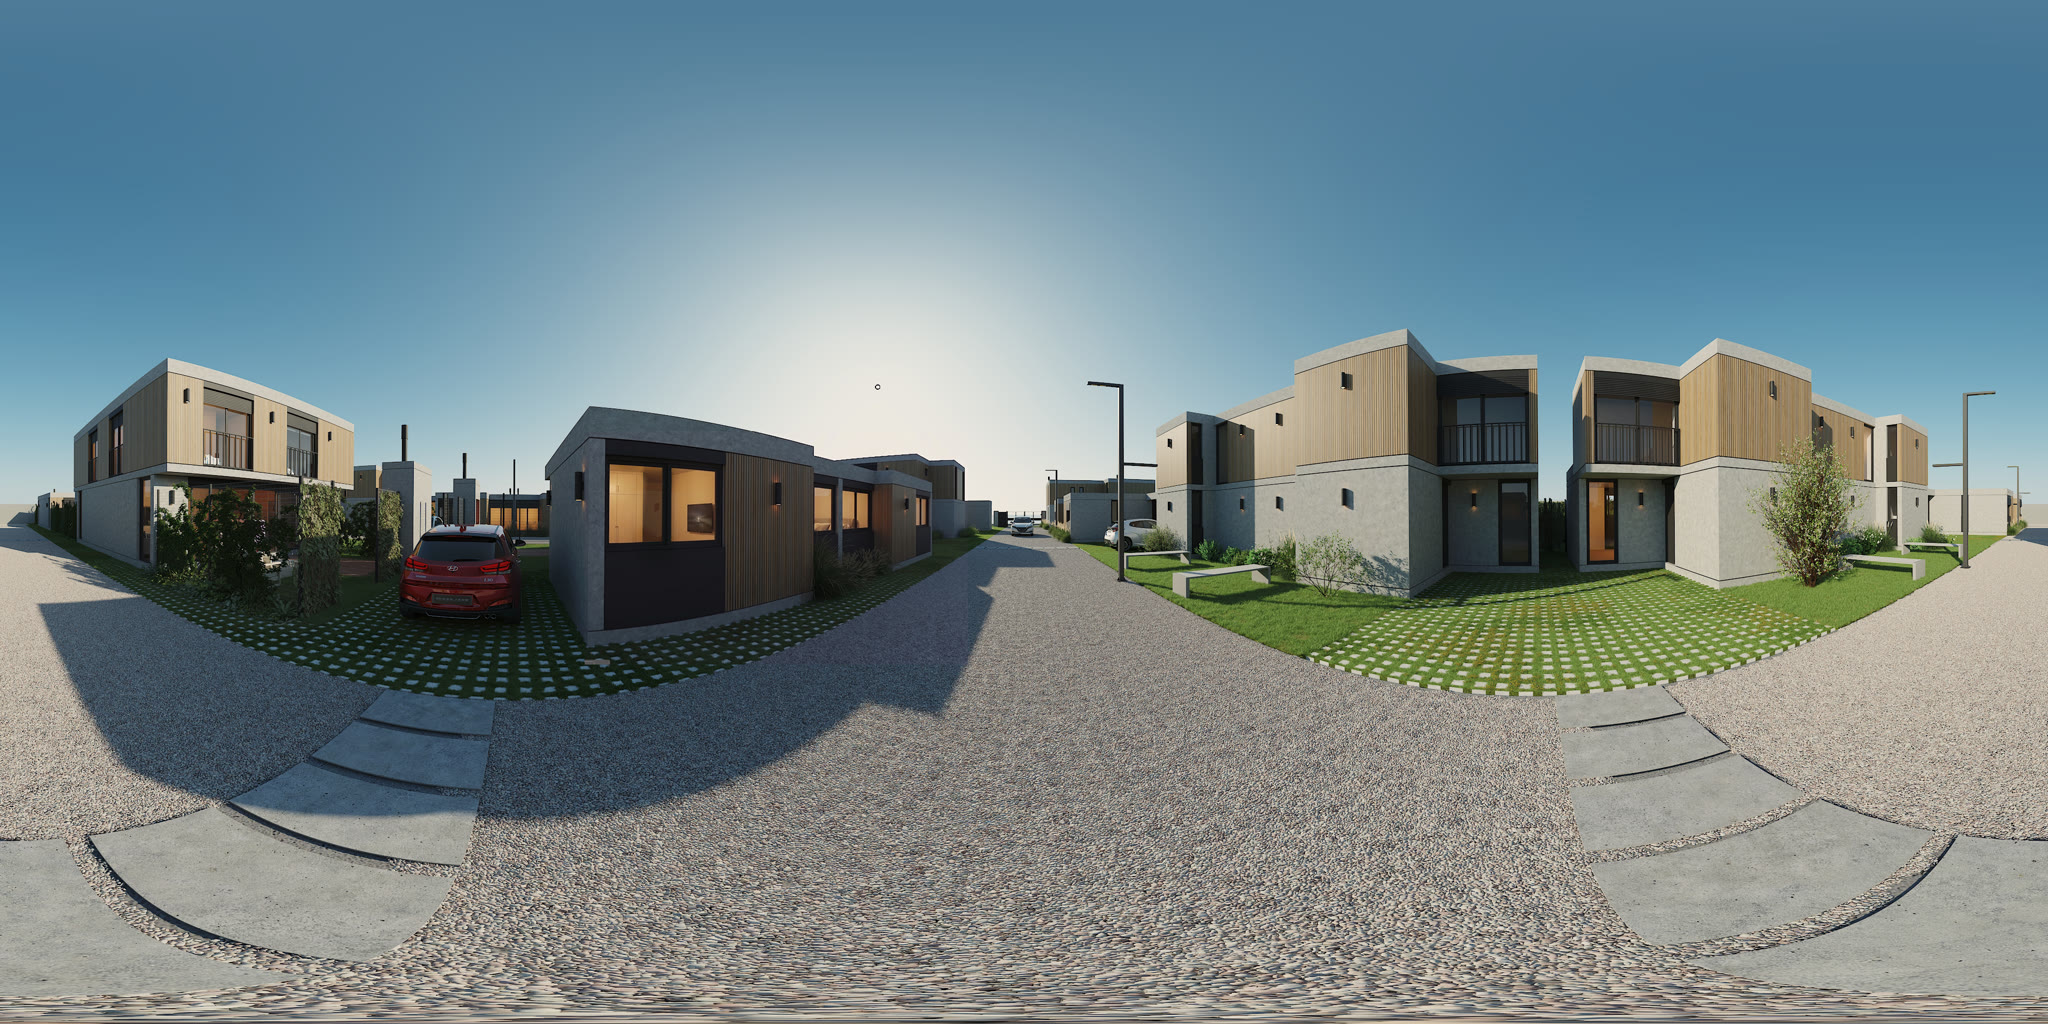
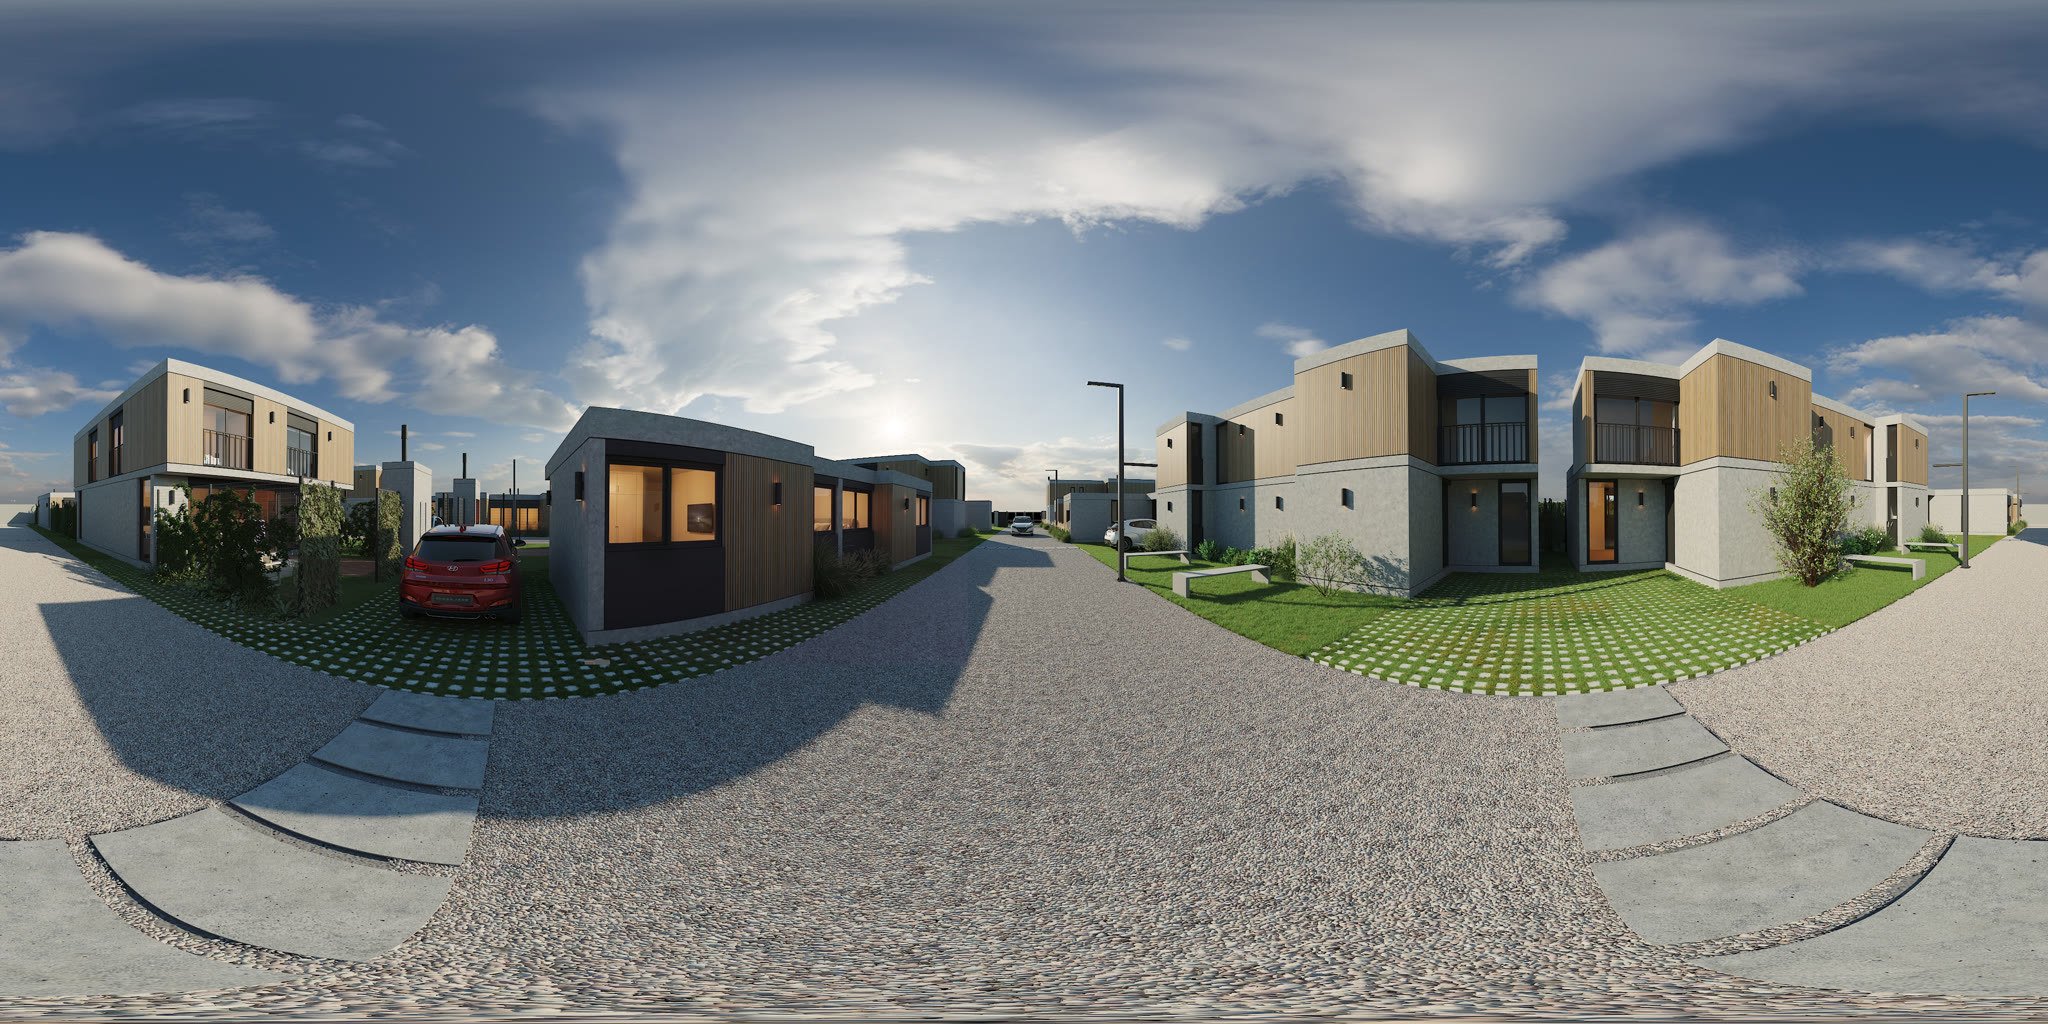
La Costa Park 360: panorama con nubes renderizadas; el cielo en movimiento queda apagado porque arrastraba el sol

diff --git a/clientes/grupo-diuiringuer/360/index.html b/clientes/grupo-diuiringuer/360/index.html
@@ -176,9 +176,20 @@ var DIST_HOTSPOT = 6;        // metros adelante
 var RADIO = 8;               // radio de la esfera del panorama
 
 var PAR = new URLSearchParams(location.search);
-/* El cielo del render se reemplaza por uno propio con nubes, usando la
-   mascara de alpha. ?cielo=0 lo apaga para comparar. */
-var HAY_CIELO = PAR.get('cielo') !== '0';
+/* ---------- cielo en movimiento: PROBADO Y DESCARTADO ----------
+   Se llego a hacer andar: un equirect de cielo detras (el render del
+   entorno solo, sin geometria) que se desplaza en U, con la mascara de
+   alpha decidiendo pixel por pixel si se ve el cielo o la casa. Las
+   nubes se movian bien, detras del skyline y sin costura.
+   El problema no es tecnico: al correr el cielo se corre TAMBIEN el
+   sol, y como las sombras del render se quedan quietas, se nota que
+   hay truco. Con el sol en cuadro no hay velocidad que lo salve.
+   Queda todo armado y apagado. Se prende con ?cielo=1 para verlo.
+   Si alguna vez se quiere retomar, el camino seria un cielo de fondo
+   SIN el sol, y dejar el sol donde esta.
+   Por defecto se usa el panorama tal cual, que ya trae las nubes
+   renderizadas. */
+var HAY_CIELO = PAR.get('cielo') === '1';
 var VEL_CIELO = parseFloat(PAR.get('velcielo') || '0.0012');   // vueltas/s
 var corre = 0;
 
